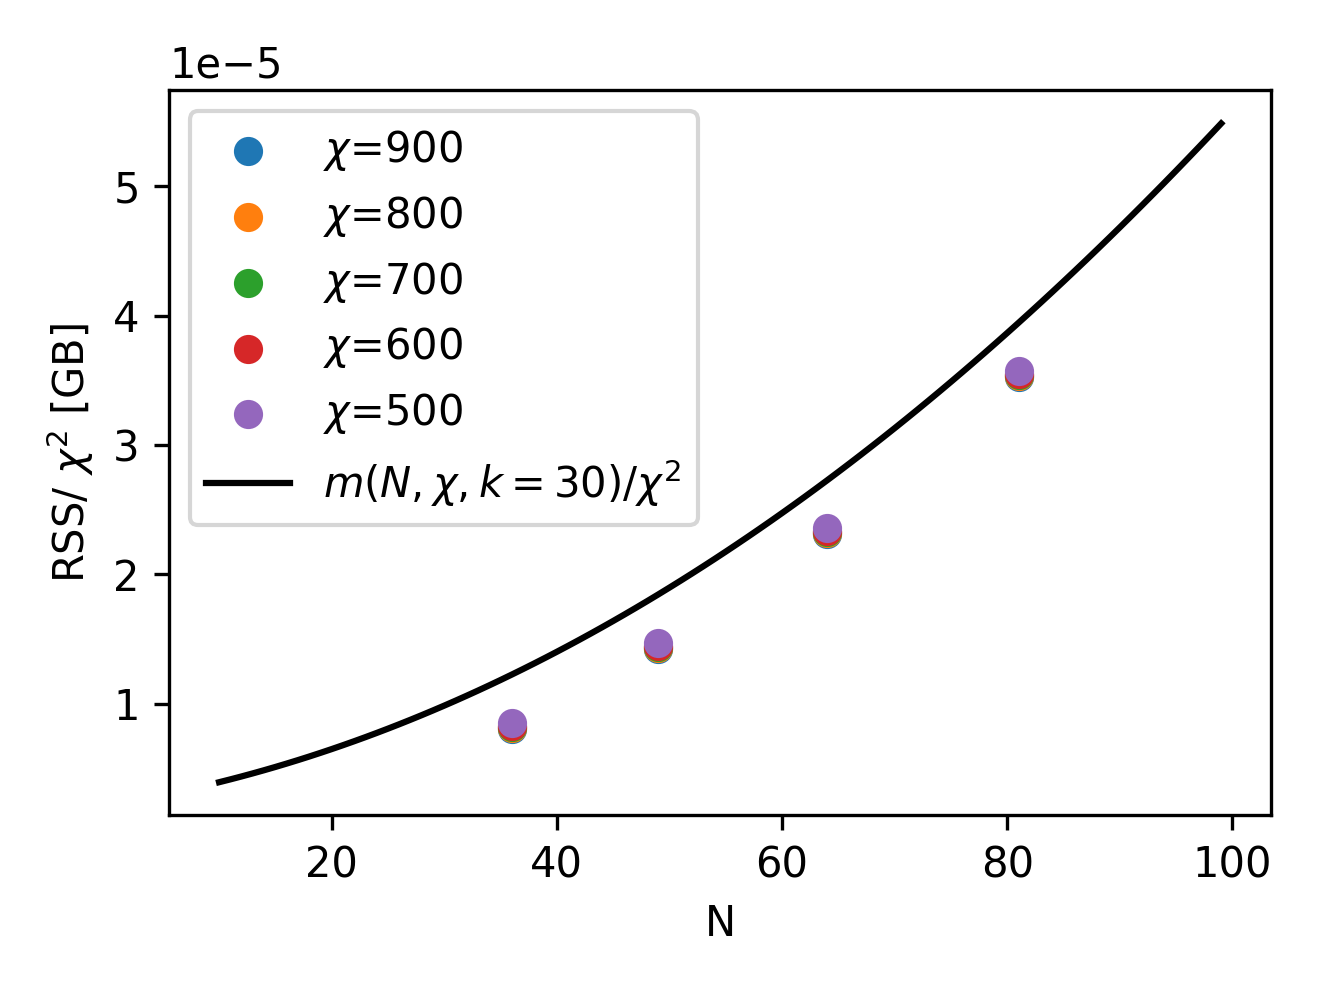
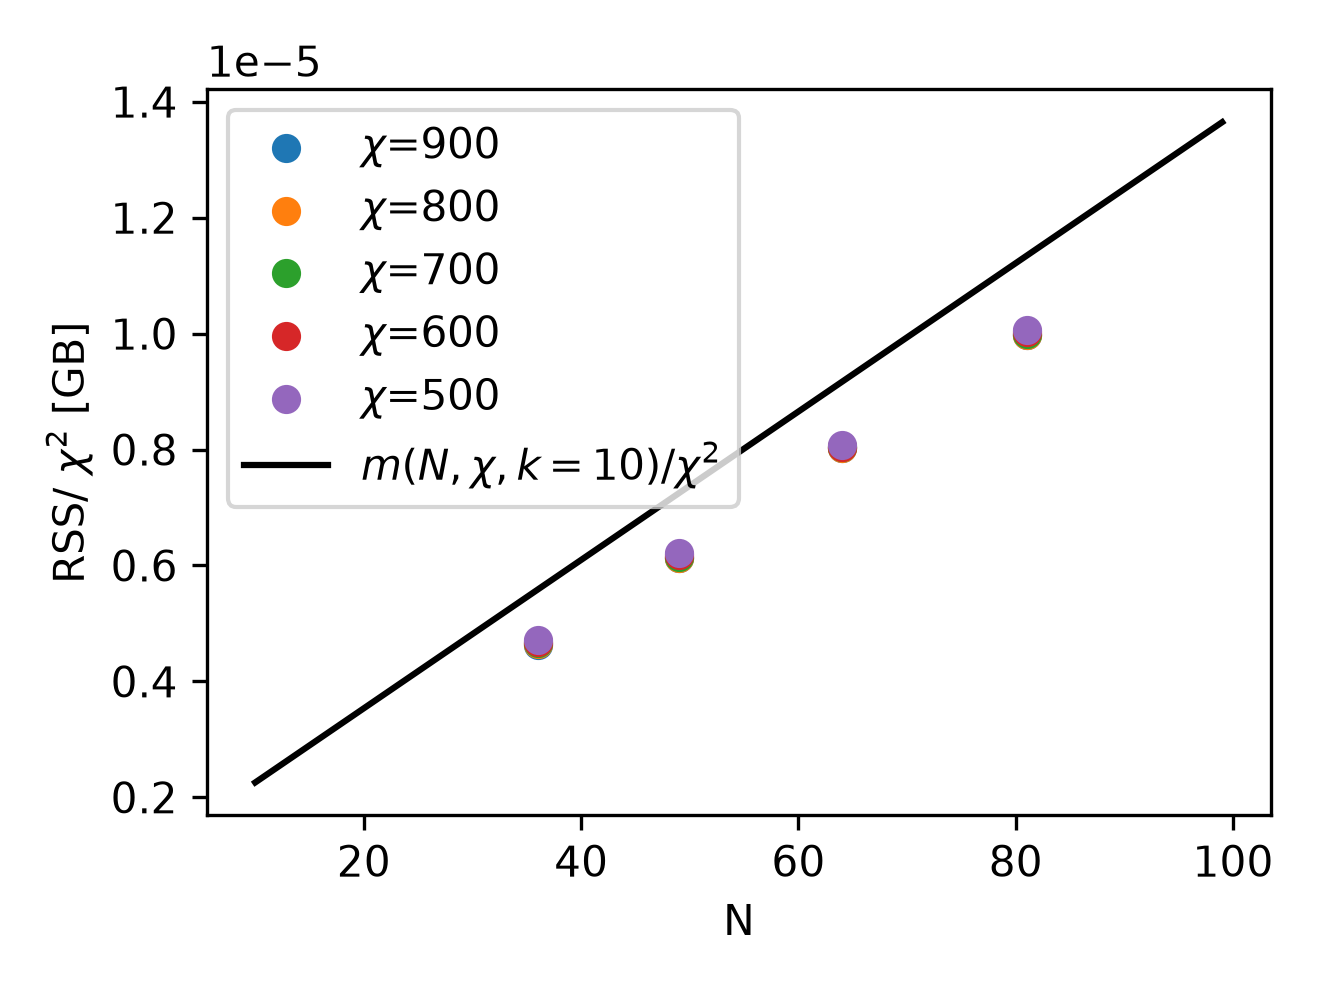
finish resource estimation page

diff --git a/docs/emu_mps/advanced/resource_estimation.md b/docs/emu_mps/advanced/resource_estimation.md
@@ -44,7 +44,7 @@ $$
 |\mathrm{bath_{CPU}}| < 2s\chi^2\sum_{i=0}^{N/2-1}(3+i) = 4\chi^2N(N+10).
 $$
 
-Just as for the state this is a strict over-estimation that is asymptotically correct, because it assumes all the bonds in the state are of size $\chi$. Note that the baths take up more memory than the state by a factor $O(N)$, where the prefactor depends on the interaction type (for Rydberg it is $1/4$), making this term the most dominant for large qubit numbers. For this reason those baths which are not used in the Lanczos algorithm are always stored on CPU, even when the emulator is configured to use GPU. By overlapping the data tranfers with other computations, we can avoid runtime impact at the cost of occasionally having a third bath tensor present on the GPU during the Lanczos algorithm. In this case we get
+Just as for the state this is a strict over-estimation that is asymptotically correct, because it assumes all the bonds in the state are of size $\chi$. Note that the baths take up more memory than the state by a factor $O(N)$, where the prefactor depends on the interaction type (for Rydberg it is $1/8$), making this term the most dominant for large qubit numbers. For this reason those baths which are not used in the Lanczos algorithm are always stored on CPU, even when the emulator is configured to use GPU. By overlapping the data transfers with other computations, we can avoid runtime impact at the cost of occasionally having a third bath tensor present on the GPU during the Lanczos algorithm. In this case we get
 
 $$
 |\mathrm{bath_GPU}| \leq 2s\chi^2(3h_{max}-1) = 16\chi^2(\frac{3N}{2}+5).
@@ -62,10 +62,10 @@ where $k$ is the value of `max_krylov_dim`. Recall that the default value of $k=
 
 ### Contribution from temporary tensors
 
-Finally, to compute the above Krylov vectors, the effective two-site Hamiltonian has to be applied to the previous Krylov vector to obtain the next one. The resulting tensor network contraction cannot be done in-place, so it has to store two intermediate results that get very large. The intermediate results take the most memory at the center qubit, where the bond dimension of the Hamiltonian becomes $h$. At this point,
+Finally, to compute the above Krylov vectors, the effective two-site Hamiltonian has to be applied to the previous Krylov vector to obtain the next one. The resulting tensor network contraction cannot be done in-place, so it has to store two intermediate results that get very large. Additionally, it has to store a reordered copy of one of the two bath tensors due to constraints on the matmul implementation in. The intermediate results take the most memory at the center qubit, where the bond dimension of the Hamiltonian becomes $h$. At this point,
 
 $$
-|\mathrm{intermediate}| = 2*shp^2\chi^2 = 128h\chi^2
+|\mathrm{intermediate}| = s\chi^2 (2hp^2+h) = h\chi^2(144)
 $$
 
 It should be noted that the value of $h$ cited above assumes that all qubits in the system interact via a two-body term, which is technically true for the Rydberg interaction. However, small terms in the interaction matrix can be truncated away via a configuration option, and this will save memory.
@@ -75,21 +75,24 @@ It should be noted that the value of $h$ cited above assumes that all qubits in 
 Putting all of this together, for the total memory consumption $m$ of the program, we can write the following bound for the CPU:
 
 $$
- m_{CPU}(N,\chi,k) = |\psi| + |\mathrm{bath_{CPU}}| + |\mathrm{krylov}| + |\mathrm{intermediate}| < 32N\chi^2 + 4\chi^2N(N+10) + 64*k*\chi^2 + 64(N+4)\chi^2 = 4\chi^2[N(N+34) + 16k + 64].
+ m_{CPU}(N,\chi,k) = |\psi| + |\mathrm{bath_{CPU}}| + |\mathrm{krylov}| + |\mathrm{intermediate}| < 32N\chi^2 + 4\chi^2N(N+10) + 64*k*\chi^2 + 72(N+4)\chi^2 = 4\chi^2[N(N+36) + 16k + 72].
 $$
 
 The quadratic scaling in $N$ is due to the bath contribution. On the GPU, we get a linear scaling instead:
 
 $$
- m_{GPU}(N,\chi,k) = |\psi| + |\mathrm{bath_{GPU}}| + |\mathrm{krylov}| + |\mathrm{intermediate}| < 32N\chi^2 + 16\chi^2(\frac{3N}{2}+5) + 64*k*\chi^2 + 64(N+4)\chi^2 = 8\chi^2[15N + 8k+42]
+ m_{GPU}(N,\chi,k) = |\psi| + |\mathrm{bath_{GPU}}| + |\mathrm{krylov}| + |\mathrm{intermediate}| < 32N\chi^2 + 16\chi^2(\frac{3N}{2}+5) + 64*k*\chi^2 + 72(N+4)\chi^2 = 8\chi^2[16N + 8k+46]
 $$
 
-Note that this estimate is __pessimistic__, since not all $k$ Krylov vectors are likely to be needed, and not all tensors in $\psi$ and the baths have the maximum bond dimension $d$. On the other hand, the estimate for $|intermediate|$ is likely to be accurate, since the bond dimension of $\chi$ is probably attained at the center qubit if the sequence is long enough.
+In this case, there is of course a quadratic scaling in the consumption of CPU RAM. For large system sizes, this will outstrip the memory requirements on the GPU, and it becomes important to ensure enough RAM is available for the program to run.
+
+Note that these estimates are __pessimistic__, since not all $k$ Krylov vectors are likely to be needed, and not all tensors in $\psi$ and the baths have the maximum bond dimension $d$. On the other hand, the estimate for $|intermediate|$ is likely to be accurate, since the bond dimension of $\chi$ is probably attained at the center qubit if the sequence is long enough.
 
 Both TDVP and DMRG rely on the same bath construction and effective Hamiltonian machinery, so their memory requirements are expected to scale similarly with $N$ and $\chi$.
 
-To test the accuracy of the above memory estimations, we benchmarked the __TDVP__ algorithm by fixing the bond dimension to a particular desired value.
-For different combinations of the number of atoms in a register $N$ and the fixed bond dimension $\chi$, we collect the maximum resident size, or RSS, which is expected to capture the maximum memory needed to run the emulation. We plot the RSS in the following picture (left), as a function of the number of qubits and for different bond dimensions. Notice that, once the RSS is normalized by $\chi^2$, as suggested by our estimate above, all the points fall into the same functional dependency on the number of atoms. Moreover, as we plot the normalized function $m(N,\chi,k)/\chi^2$, for a reasonable estimate of the size of the Krylov subspace ($k=30$), it is clear that our upper bound on memory occupation can be reasonably trusted on a wide range of system sizes and bond dimensions.
+To test the accuracy of the above memory estimations, we benchmarked the __TDVP__ algorithm by fixing the bond dimension to a particular desired value. We will run the benchmark on GPU, and consider the memory burden on the GPU.
+
+For different combinations of the number of atoms in a register $N$ and the fixed bond dimension $\chi$, we collect the maximum resident set size, or RSS,  on the GPU, which is expected to capture the maximum memory needed to run the emulation. We plot the RSS in the following picture (left), as a function of the number of qubits and for different bond dimensions. Notice that, once the RSS is normalized by $\chi^2$, as suggested by our estimate above, all the points fall into the same functional dependency on the number of atoms. Moreover, as we plot the normalized function $m(N,\chi,k)/\chi^2$, for a reasonable estimate of the size of the Krylov subspace ($k=10$), it is clear that our upper bound on memory occupation can be reasonably trusted on a wide range of system sizes and bond dimensions.
 
 <img src="../../benchmarks/benchmark_plots/RSS_vs_N.png"  width="49.7%">
 <img src="../../benchmarks/benchmark_plots/emumps_maxRSS_map.png"  width="49.7%">
@@ -102,7 +105,7 @@ Although these results are shown for __TDVP__, a similar analysis could be perfo
 
 ### An example
 
-For example, the results from the [case study](convergence.md) were obtained using $N=49$ and $d=1600$ on 2 GPUs. Taking the above formula, and halving the contributions from $\psi$ and $|\mathrm{bath}|$ since they are split evenly on the GPUs, we reproduce the memory consumption of the program for $k=13$. Notice that the actual number of Krylov vectors required to reach convergence is likely larger than 13, but here we underestimate it since the contributions of $\psi$ and $|\mathrm{bath}|$ are over-estimated.
+For example, the results from the [case study](convergence.md) were obtained using $N=49$ and $d=1600$. Taking the above formula for GPU, we find a memory consumption of $16.998$ GB even for $k=0$, while the actual cited memory consumption on GPU is $14.659$ GB. The actual number of Krylov vectors required to reach convergence is likely around 10, but this contribution is not visible since $\psi$ and $|\mathrm{bath}|$ are over-estimated.
 
 ## Estimating the runtime of a simulation
 
